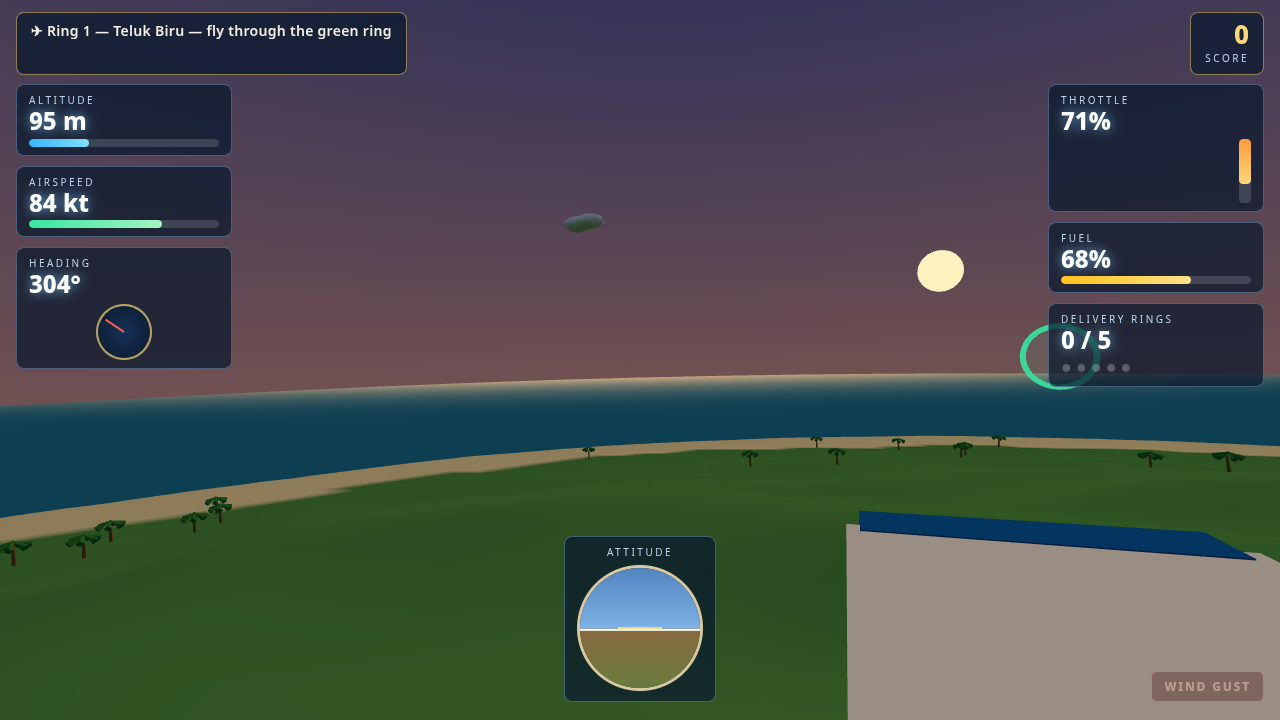
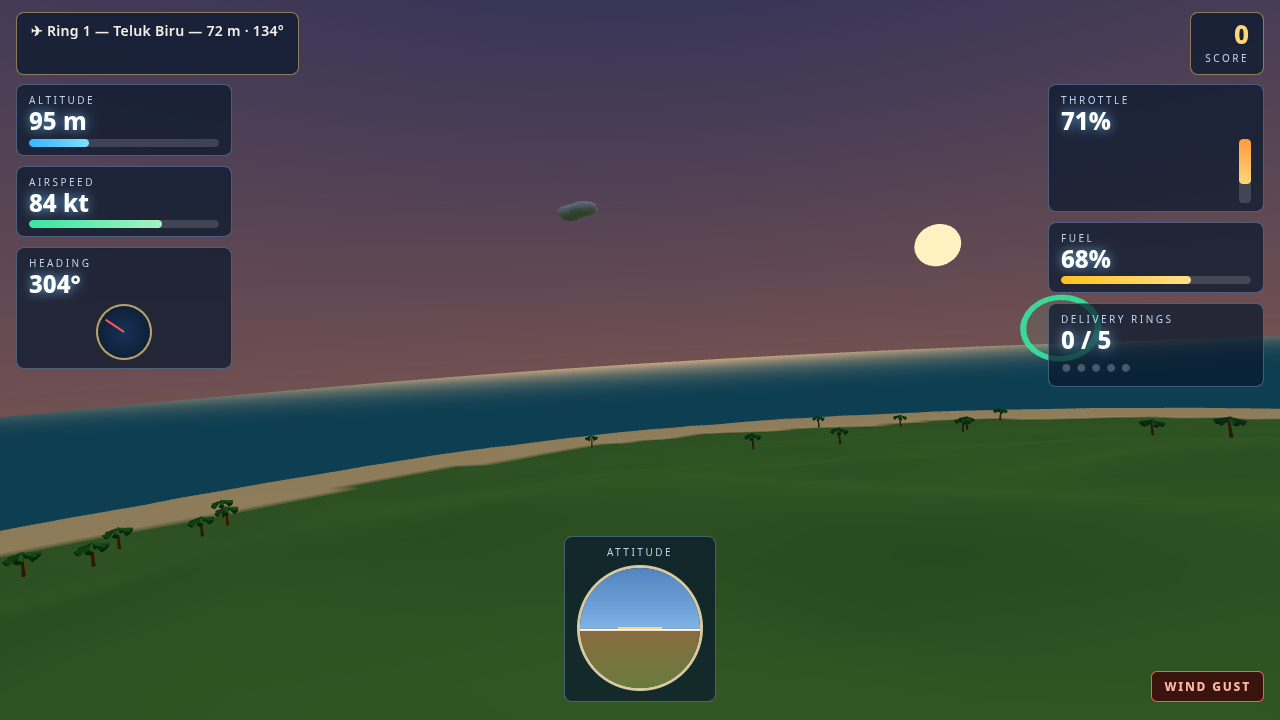
Polish pass: nav lights, HUD bearing/distance, cockpit camera, autopilot terrain avoidance

diff --git a/game/src/hud.js b/game/src/hud.js
@@ -3,6 +3,7 @@
 // counter, mission text, an artificial horizon, and warning lights. The
 // instruments are drawn with lit gradients and needles, not flat text.
 import { PLANE, RINGS } from './config.js';
+import { nextTargetLabel, targetBearing } from './missions.js';
 
 const KNOTS_PER_MS = 1.94384;
 
@@ -118,9 +119,12 @@ export function createHud(root) {
     ringValue.textContent = `${flight.ringsDone} / ${RINGS.length}`;
     dots.forEach((dot, i) => dot.classList.toggle('done', i < flight.ringsDone));
     const next = RINGS[flight.ringsDone];
-    mission.textContent = next
-      ? `✈ ${next.label} — fly through the green ring`
-      : '✈ All rings done — land on the runway!';
+    if (next) {
+      const bearing = targetBearing(flight);
+      mission.textContent = `✈ ${nextTargetLabel(flight)} — ${bearing.distance} m · ${bearing.bearing}°`;
+    } else {
+      mission.textContent = '✈ All rings done — land on the runway!';
+    }
     horizonDisc.style.transform = `rotate(${-flight.roll}rad) translateY(${flight.pitch * 40}px)`;
     warnFuel.classList.toggle('on', flight.fuel < 25);
     warnDamage.classList.toggle('on', flight.damage > 40);

diff --git a/game/src/render.js b/game/src/render.js
@@ -134,13 +134,13 @@ function chaseCamera(world, flight, dt) {
   camera.rotation.z = flight.roll * 0.25; // gentle bank with the plane
 }
 
-/** Cockpit camera: just behind the nose, above the canopy, looking
- *  straight ahead over the nose so the terrain reads, not the airframe. */
+/** Cockpit camera: above the nose, looking straight ahead over it so the
+ *  terrain reads and only the nose tip frames the bottom of the view. */
 function cockpitCamera(world, flight) {
   const camera = world.camera;
   const fx = Math.sin(flight.heading);
   const fz = -Math.cos(flight.heading);
-  camera.position.set(flight.x + fx * 2.2, flight.y + 1.35, flight.z + fz * 2.2);
+  camera.position.set(flight.x + fx * 3.4, flight.y + 2.3, flight.z + fz * 3.4);
   const look = new THREE.Vector3(
     flight.x + fx * 40,
     flight.y + Math.sin(flight.pitch) * 40,

diff --git a/game/src/terrain.js b/game/src/terrain.js
@@ -4,7 +4,7 @@
 // the south of the island, with a town, palm clusters and hills around it.
 import * as THREE from 'three';
 import { COLOURS, RUNWAY, WORLD } from './config.js';
-import { makeNoise2D, makeRng } from './random.js';
+import { makeNoise2D, makeRng, range } from './random.js';
 
 const noise = makeNoise2D(90210);
 
@@ -177,7 +177,7 @@ export function buildTerrain(scene, seed) {
       puff.scale.y = 0.45;
       cloud.add(puff);
     }
-    cloud.position.set((rng() - 0.5) * 2000, 190 + rng() * 90, (rng() - 0.5) * 2000);
+    cloud.position.set((rng() - 0.5) * 2000, range(rng, 190, 280), (rng() - 0.5) * 2000);
     clouds.add(cloud);
   }
   group.add(clouds);

diff --git a/game/src/aircraft.js b/game/src/aircraft.js
@@ -88,6 +88,15 @@ export function buildAircraft() {
   stripe.position.set(0, 0.1, 0.4);
   group.add(stripe);
 
+  // Navigation lights: red on the left wingtip, green on the right.
+  const navLightGeo = new THREE.SphereGeometry(0.22, 8, 6);
+  const navLeft = new THREE.Mesh(navLightGeo, new THREE.MeshBasicMaterial({ color: 0xff2a2a }));
+  navLeft.position.set(-6.85, -0.15, -0.4);
+  group.add(navLeft);
+  const navRight = new THREE.Mesh(navLightGeo, new THREE.MeshBasicMaterial({ color: 0x2aff66 }));
+  navRight.position.set(6.85, -0.15, -0.4);
+  group.add(navRight);
+
   return { group, propeller };
 }
 

diff --git a/game/src/audio.js b/game/src/audio.js
@@ -120,6 +120,11 @@ export function createAudio() {
     blip(660, 0.18, 'square', 0.12);
   }
 
+  /** Soft UI click for menu buttons. */
+  function click() {
+    blip(1200, 0.07, 'sine', 0.12);
+  }
+
   /** A soft crash rumble: falling noise burst. */
   function crashSound() {
     if (!ctx || muted) return;
@@ -148,5 +153,5 @@ export function createAudio() {
     return muted;
   }
 
-  return { ensure, update, ringChime, touchdown, warningBeep, crashSound, toggleMute };
+  return { ensure, update, ringChime, touchdown, warningBeep, crashSound, click, toggleMute };
 }

diff --git a/game/src/missions.js b/game/src/missions.js
@@ -71,6 +71,12 @@ export function nextTarget(flight) {
   return { x: 0, y: 40, z: 420, r: 30, label: 'Runway — land here' };
 }
 
+/** Short label for the next navigation target, for the HUD mission line. */
+export function nextTargetLabel(flight) {
+  if (flight.ringsDone < RINGS.length) return RINGS[flight.ringsDone].label;
+  return 'Runway — land here';
+}
+
 /** Bearing (degrees) and distance to the next target, for the HUD. */
 export function targetBearing(flight) {
   const target = nextTarget(flight);

diff --git a/game/src/input.js b/game/src/input.js
@@ -23,6 +23,8 @@ export function createInput() {
     keys.delete(event.code);
   }
   function onMouseMove(event) {
+    // Only the canvas steers: moving over menus and panels must not trim.
+    if (event.target && event.target.tagName !== 'CANVAS') return;
     state.mouseX = (event.clientX / window.innerWidth) * 2 - 1;
     state.mouseY = (event.clientY / window.innerHeight) * 2 - 1;
     state.mouseActive = true;

diff --git a/game/src/physics.js b/game/src/physics.js
@@ -104,7 +104,7 @@ export function stepFlight(flight, input, dt) {
   if (!flight.airborne) {
     flight.y = groundNow + PLANE.gearHeight;
     flight.verticalSpeed = 0;
-    if (flight.speed > 26 && flight.pitch > 0.04) {
+    if (flight.speed > PLANE.takeoffSpeed && flight.pitch > 0.04) {
       flight.airborne = true;
       flight.y += lift * dt;
     }

diff --git a/game/src/config.js b/game/src/config.js
@@ -31,6 +31,7 @@ export const PLANE = {
   turnRate: 0.55,
   throttleRate: 0.55, // per second
   gearHeight: 2.2,
+  takeoffSpeed: 26, // m/s: rotation speed — the nose only lifts past this
   fuelCapacity: 100,
   fuelBurn: 2.6, // per second at full throttle
   maxDamage: 100,

diff --git a/game/src/random.js b/game/src/random.js
@@ -48,3 +48,8 @@ export function makeNoise2D(seed) {
 export function pick(rng, items) {
   return items[Math.floor(rng() * items.length)];
 }
+
+/** A number in [min, max) from the given RNG. */
+export function range(rng, min, max) {
+  return min + rng() * (max - min);
+}

diff --git a/game/src/main.js b/game/src/main.js
@@ -103,6 +103,7 @@ function showScreen() {
   overlay.querySelectorAll('button').forEach((button) => {
     button.addEventListener('click', () => {
       audio.ensure();
+      audio.click();
       doAction(button.dataset.action);
     });
   });
